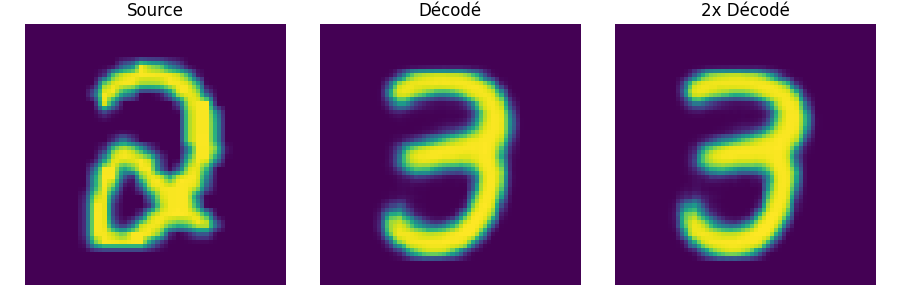
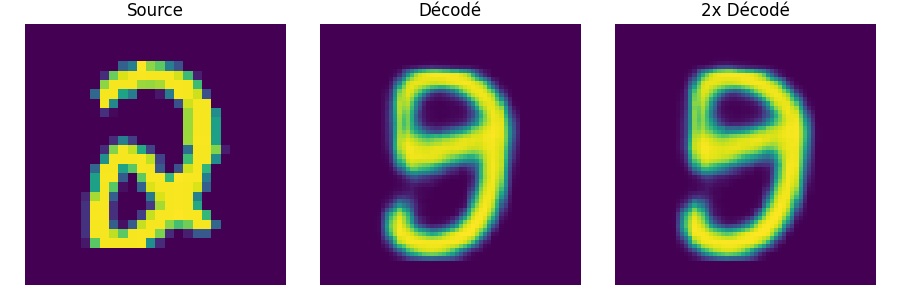
Code rewrites

Changed region(s): [[0.7467, 0.21, 0.9333, 0.87], [0.0933, 0.18, 0.2489, 0.84], [0.4044, 0.21, 0.5911, 0.87]]

diff --git a/Sources/Code/Analytics/TranslationPlots.py b/Sources/Code/Analytics/TranslationPlots.py
@@ -1,72 +1,62 @@
 import numpy as np
-import matplotlib.pyplot as plt
-from matplotlib.colors import Normalize
-
-import os
-
-from sklearn.manifold import TSNE
-
-from keras.datasets import mnist
-
-import tensorflow.keras.backend as K
 import tensorflow as tf
-from tensorflow.keras.models import load_model
+from keras.datasets import mnist
+import matplotlib.pyplot as plt
 
-import Utils
+from Code.Models import BetaVAE
+from Code.Utils import cache, latent, utils
 
-K.clear_session()
 np.random.seed(42)
+tf.keras.utils.set_random_seed(42)
 
-(X_train, Y_train), (X_valid, Y_valid) = mnist.load_data()
+(x_train, y_train), (x_test, y_test) = mnist.load_data()
+x_train, x_test = utils.preprocess_dataset(x_train, x_test)
 
-X_train = X_train.astype("float32") / 255.
-X_train = X_train.reshape(-1, 28, 28, 1)
-
-X_valid = X_valid.astype("float32") / 255.
-X_valid = X_valid.reshape(-1, 28, 28, 1)
-
-X_train = tf.image.resize(X_train, (64, 64))
-X_valid = tf.image.resize(X_valid, (64, 64))
+autoencoder = tf.keras.models.load_model(cache.MODEL_FOLDER / "BetaVAE" / "betavae16.keras")
 
 src_digit = 1303
-src_class = Y_valid[src_digit]
+src_class = y_test[src_digit]
 dst_class = 3
 
-batch_size = 32
+z_class_distributions = latent.encode_class_distributions(
+    autoencoder,
+    x=x_train,
+    y=y_train,
+    n_times=2,
+    save_cache=True
+)
 
-encoder = load_model("./Models/DISVAE/mnist-16-encoder.keras")
-decoder = load_model("./Models/DISVAE/mnist-16-decoder.keras")
+z_1 = latent.encode(autoencoder, x_test[src_digit : src_digit + 1], y_test)
+x_1 = latent.decode(autoencoder, z_1, y_test)
+z_2 = latent.encode(autoencoder, x_1, y_test)
+x_2 = latent.decode(autoencoder, z_2, y_test)
+z_3 = latent.encode(autoencoder, x_2, y_test)
 
-X_encoded_valid = Utils.encoded(X_valid, "valid_disvae", encoder, decoder, 1, batch_size)
-X_reencoded_valid = Utils.encoded(X_valid, "valid_disvae", encoder, decoder, 2, batch_size)
-X_rereencoded_valid = Utils.encoded(X_valid, "valid_disvae", encoder, decoder, 3, batch_size)
-encoded_means = Utils.encoded_means(X_train, Y_train, "encoded_means_disvae", encoder, decoder, 2, batch_size)
+z_mean_src = z_class_distributions[src_class][0]
+z_mean_dst = z_class_distributions[dst_class][0]
 
-mean_encoded_src = encoded_means[src_class]
-mean_encoded_dst = encoded_means[dst_class]
+translation = z_mean_dst - z_mean_src
 
-translation = mean_encoded_dst - mean_encoded_src
+z_trans_2 = z_2 + translation
+z_trans_3 = z_3 + translation
 
-translated1 = X_reencoded_valid[src_digit : src_digit + 1] + translation
-translated2 = X_rereencoded_valid[src_digit : src_digit + 1] + translation
-
-translated_decoded1 = decoder.predict(translated1, batch_size = batch_size)
-translated_decoded2 = decoder.predict(translated2, batch_size = batch_size)
+x_trans_2 = latent.decode(autoencoder, z_trans_2, np.array([dst_class]))
+x_trans_3 = latent.decode(autoencoder, z_trans_3, np.array([dst_class]))
 
 plt.figure(figsize=(9, 3))
 
 plt.subplot(1, 3, 1)
-plt.imshow(X_valid.numpy()[src_digit].reshape(64, 64))
+plt.imshow(x_test[src_digit].reshape(28, 28))
 plt.axis("off")
 plt.title("Source")
 
 plt.subplot(1, 3, 2)
-plt.imshow(translated_decoded1[0].reshape(64, 64))
+plt.imshow(x_trans_2[0].reshape(64, 64))
 plt.axis("off")
 plt.title("Décodé")
 
 plt.subplot(1, 3, 3)
-plt.imshow(translated_decoded2[0].reshape(64, 64))
+plt.imshow(x_trans_3[0].reshape(64, 64))
 plt.axis("off")
 plt.title("2x Décodé")
 
@@ -76,68 +66,67 @@ plt.savefig(f"./Results/mnist-translation-decoded-{src_class}-{dst_class}.png")
 fig, axes = plt.subplots(3, 2, figsize=(22, 18))
 axes = axes.flatten()
 
-axes[0].plot(mean_encoded_dst[0] - mean_encoded_src[0],
+axes[0].plot(z_mean_dst - z_mean_src,
              color="gray", ls="--", lw=0.75,
              label=f"Différence (translation {src_class} → {dst_class})")
-axes[0].plot(mean_encoded_src[0],
+axes[0].plot(z_mean_src,
              color="red", lw=2.25,
              label=f"Centroïde source ({src_class})")
-axes[0].plot(mean_encoded_dst[0],
+axes[0].plot(z_mean_dst,
              color="blue", lw=2.25,
              label=f"Centroïde destination ({dst_class})")
 axes[0].set_title("Centroïdes")
 axes[0].legend(loc="lower left")
 
-axes[1].plot(X_encoded_valid[0] - mean_encoded_src[0],
+axes[1].plot(z_1.squeeze() - z_mean_src,
              color="gray", ls="--", lw=0.75,
              label=f"Différence (écart au centroïde source {src_class})")
-axes[1].plot(mean_encoded_src[0],
+axes[1].plot(z_mean_src,
              color="red", ls="--", lw=1.5,
              label=f"Centroïde source ({src_class})")
-axes[1].plot(X_encoded_valid[0],
+axes[1].plot(z_1.squeeze(),
              color="darkred", lw=2.25,
              label=f"Chiffre source ({src_class})")
 axes[1].set_title("Centroïde source et Chiffre source")
 axes[1].legend(loc="lower left")
 
-axes[2].plot(translated2[0] - mean_encoded_dst[0],
+axes[2].plot(z_trans_3.squeeze() - z_mean_dst,
              color="gray", ls="--", lw=0.75,
              label=f"Différence (écart au centroïde destination {dst_class})")
-axes[2].plot(mean_encoded_dst[0],
+axes[2].plot(z_mean_dst,
              color="blue", ls="--", lw=1.5,
              label=f"Centroïde destination ({dst_class})")
-axes[2].plot(translated2[0],
+axes[2].plot(z_trans_3.squeeze(),
              color="darkblue", lw=2.25,
              label=f"Chiffre décodé & translaté ({dst_class})")
 axes[2].set_title("Centroïde destination et Chiffre décodé & translaté")
 axes[2].legend(loc="lower left")
 
-axes[3].plot(translated2[0] - mean_encoded_src[0],
+axes[3].plot(z_trans_3.squeeze() - z_mean_src,
              color="gray", ls="--", lw=0.75,
              label=f"Différence (écart au centroïde source {src_class})")
-axes[3].plot(mean_encoded_src[0],
+axes[3].plot(z_mean_src,
              color="red", ls="--", lw=1.5,
              label=f"Centroïde source ({src_class})")
-axes[3].plot(translated2[0],
+axes[3].plot(z_trans_3.squeeze(),
              color="darkblue", lw=2.25,
              label=f"Chiffre décodé & translaté ({dst_class})")
 axes[3].set_title("Centroïde source et Chiffre décodé & translaté")
 axes[3].legend(loc="lower left")
 
-axes[4].plot(translated2[0] - translated1[0],
+axes[4].plot(z_trans_3.squeeze() - z_trans_2.squeeze(),
              color="gray", ls="--", lw=0.75,
              label="Différence")
-axes[4].plot(translated2[0],
+axes[4].plot(z_trans_3.squeeze(),
              color="darkblue", lw=2.25,
              label=f"Chiffre décodé & translaté ({dst_class})")
-axes[4].plot(translated1[0],
+axes[4].plot(z_trans_2.squeeze(),
              color="#32CD32", ls="--", lw=1.5,
              label=f"Chiffre translaté ({dst_class})")
 axes[4].set_title("Chiffre translaté et Chiffre décodé & translaté")
 axes[4].legend(loc="lower left")
 
-if len(axes) > 5:
-    fig.delaxes(axes[5])
+fig.delaxes(axes[5])
 
 for ax in axes[:5]:
     ax.grid(True, which="both")

diff --git a/Sources/Code/Analytics/TranslationDistributions.py b/Sources/Code/Analytics/TranslationDistributions.py
@@ -1,0 +1,99 @@
+import numpy as np
+import tensorflow as tf
+from keras.datasets import mnist
+import matplotlib.pyplot as plt
+import matplotlib.patches as mpatches
+
+from Code.Models import BetaVAE
+from Code.Utils import cache, latent, utils
+
+np.random.seed(42)
+tf.keras.utils.set_random_seed(42)
+
+(x_train, y_train), (x_test, y_test) = mnist.load_data()
+x_train, x_test = utils.preprocess_dataset(x_train, x_test)
+
+autoencoder = tf.keras.models.load_model(cache.MODEL_FOLDER / "BetaVAE" / "betavae16.keras")
+
+y_src = 0
+y_dst = 1
+
+x_selected = x_train[(y_train == y_src) | (y_train == y_dst)]
+y_selected = y_train[(y_train == y_src) | (y_train == y_dst)]
+
+z_selected = latent.encode(
+    autoencoder,
+    x=x_selected,
+    y=y_selected,
+    n_times=2,
+    save_cache=False
+)
+
+z_test = latent.encode(
+    autoencoder,
+    x=x_test,
+    y=y_test,
+    n_times=3,
+    save_cache=True
+)
+
+z_class_distributions = latent.class_distributions(z_selected, y_selected)
+
+z_mean_src, z_std_src = z_class_distributions[y_src]
+z_mean_dst, z_std_dst = z_class_distributions[y_dst]
+
+z_src = z_test[y_test == y_src]
+z_dst = z_test[y_test == y_dst]
+
+z_trans = latent.translate(z_src, y_src, y_dst, z_class_distributions, use_std=False)
+z_trans_std = latent.translate(z_src, y_src, y_dst, z_class_distributions, use_std=True)
+
+d = z_test.shape[1]
+
+positions = 2 * np.arange(1, d + 1)
+
+positions_src = positions - 0.35
+positions_dst = positions + 0.35
+positions_trans = positions - 0.125
+positions_trans_std = positions + 0.125
+
+
+plt.figure(figsize=(14, 8))
+plt.axhline(y=0, color='gray')
+
+bp_src = plt.boxplot(z_src, positions=positions_src, patch_artist=True, 
+                     showfliers=False, widths=0.2,
+                     boxprops=dict(facecolor='lightblue', color='blue'),
+                     medianprops=dict(color='darkblue', linewidth=3))
+
+bp_dst = plt.boxplot(z_dst, positions=positions_dst, patch_artist=True, 
+                     showfliers=False, widths=0.2,
+                     boxprops=dict(facecolor='lightgreen', color='green'),
+                     medianprops=dict(color='darkgreen', linewidth=3))
+
+bp_trans = plt.boxplot(z_trans, positions=positions_trans, patch_artist=True, 
+                       showfliers=False, widths=0.2,
+                       boxprops=dict(facecolor='lightcoral', color='red'),
+                       medianprops=dict(color='darkred', linewidth=3))
+
+bp_trans_std = plt.boxplot(z_trans_std, positions=positions_trans_std, patch_artist=True, 
+                       showfliers=False, widths=0.2,
+                       boxprops=dict(facecolor='mediumpurple', color='purple'),
+                       medianprops=dict(color='darkviolet', linewidth=3))
+
+plt.xlabel("Dimension")
+plt.ylabel("Valeur")
+plt.title("Translation")
+
+plt.xticks(2 * np.arange(1, d + 1), [f"{i}" for i in range(1, d + 1)])
+
+legend_handles = [
+    mpatches.Patch(color='lightblue', label='Source'),
+    mpatches.Patch(color='lightcoral', label='Translaté'),
+    mpatches.Patch(color='mediumpurple', label='Translaté & Normalisé'),
+    mpatches.Patch(color='lightgreen', label='Destination')
+]
+plt.legend(handles=legend_handles)
+
+plt.tight_layout()
+plt.savefig(cache.RESULTS_FOLDER / f"mnist-translation-boxplot-{y_src}-{y_dst}.png")

diff --git a/Sources/Code/Utils/latent.py b/Sources/Code/Utils/latent.py
@@ -88,31 +88,28 @@ def encode_class_distributions(autoencoder, x, y, n_times=1, save_cache=False, v
     return cache.load_from_cache(key, lambda: class_distributions(encode(autoencoder, x, y, n_times, False), y), save_cache, verbose)
 
 def translate(z, y_src, y_dst, class_distributions, use_std=True):
-    if len(z) != len(y_src) or len(y_src) != len(y_dst):
-        raise ValueError(f"x ({len(z)}), y_src ({len(y_src)}) et y_dst ({len(y_dst)}) doivent être de la même taille")
-    
     z = np.asarray(z)
 
-    if np.isscalar(y_src) and np.isscalar(y_dst):
-        src_mean, src_std = class_distributions[y_src]
-        dst_mean, dst_std = class_distributions[y_dst]
-        if use_std:
-            return dst_mean + (dst_std / src_std) * (z - src_mean)
-        else:
-            return z + dst_mean - src_mean
+    if np.isscalar(y_src):
+        y_src = np.full(len(z), y_src)
+    if np.isscalar(y_dst):
+        y_dst = np.full(len(z), y_dst)
+
+    if len(z) != len(y_src) or len(y_src) != len(y_dst):
+        raise ValueError(f"x ({len(z)}), y_src ({len(y_src)}) et y_dst ({len(y_dst)}) doivent être de la même taille")
+
+    y_src = np.array(y_src)
+    y_dst = np.array(y_dst)
+
+    src_mean = np.array([class_distributions[c][0] for c in y_src])
+    src_std  = np.array([class_distributions[c][1] for c in y_src])
+    dst_mean = np.array([class_distributions[c][0] for c in y_dst])
+    dst_std  = np.array([class_distributions[c][1] for c in y_dst])
+    
+    if use_std:
+        return dst_mean + (dst_std / src_std) * (z - src_mean)
     else:
-        y_src = np.array(y_src)
-        y_dst = np.array(y_dst)
-        
-        src_mean = np.array([class_distributions[c][0] for c in y_src])
-        src_std  = np.array([class_distributions[c][1] for c in y_src])
-        dst_mean = np.array([class_distributions[c][0] for c in y_dst])
-        dst_std  = np.array([class_distributions[c][1] for c in y_dst])
-        
-        if use_std:
-            return dst_mean + (dst_std / src_std) * (z - src_mean)
-        else:
-            return z + dst_mean - src_mean
+        return z + dst_mean - src_mean
         
 def style_class_transform(z, y, num_classes=None):
     return (z, tf.keras.utils.to_categorical(y, num_classes=num_classes))

diff --git a/Sources/Code/Translation/CDFTranslation.py b/Sources/Code/Translation/CDFTranslation.py
@@ -2,11 +2,12 @@ import numpy as np
 import tensorflow as tf
 from keras.datasets import mnist
 import matplotlib.pyplot as plt
+
 from Code.Models import BetaVAE
 from Code.Utils import cache, latent, utils
 
-np.random.seed(1337)
-tf.keras.utils.set_random_seed(1337)
+np.random.seed(42)
+tf.keras.utils.set_random_seed(42)
 
 (x_train, y_train), (x_test, y_test) = mnist.load_data()
 x_train, x_test = utils.preprocess_dataset(x_train, x_test)
